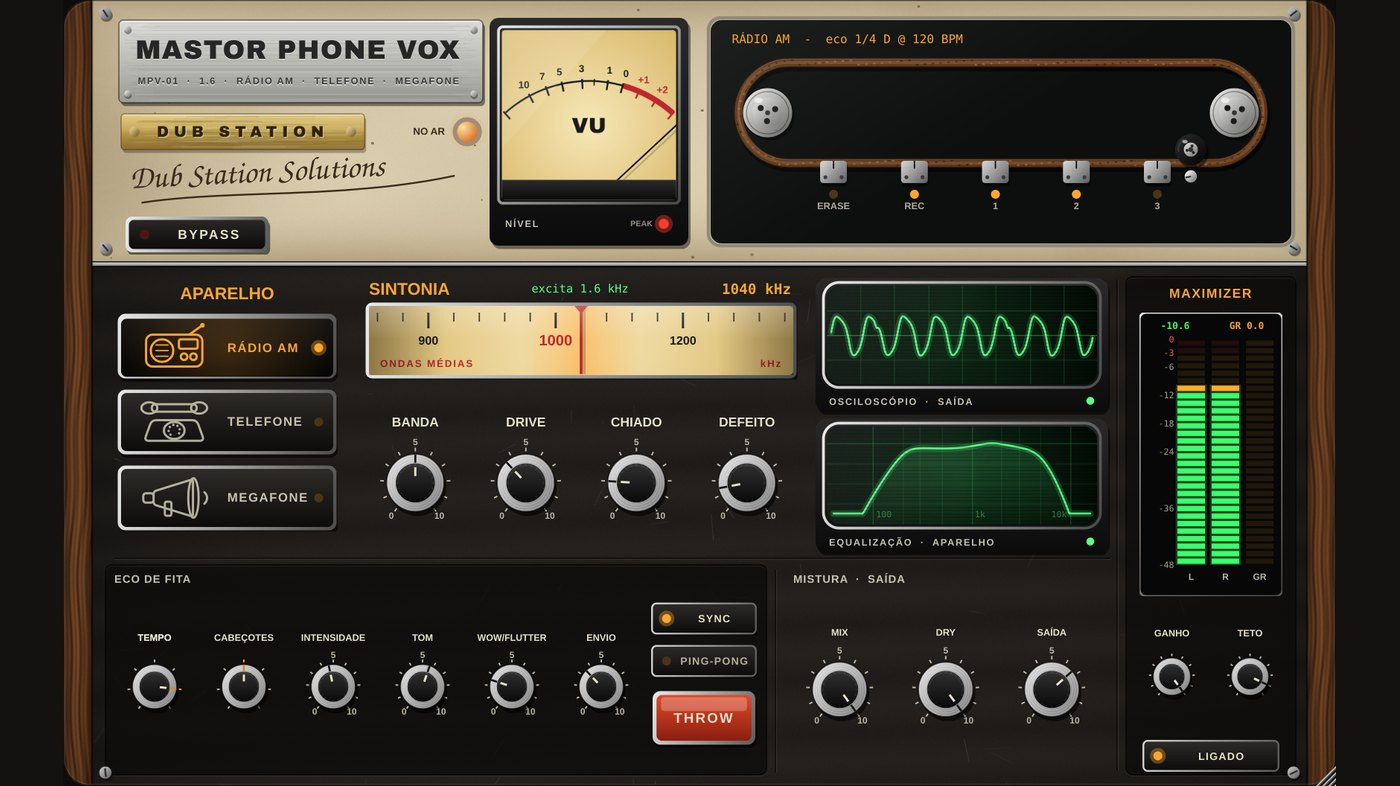
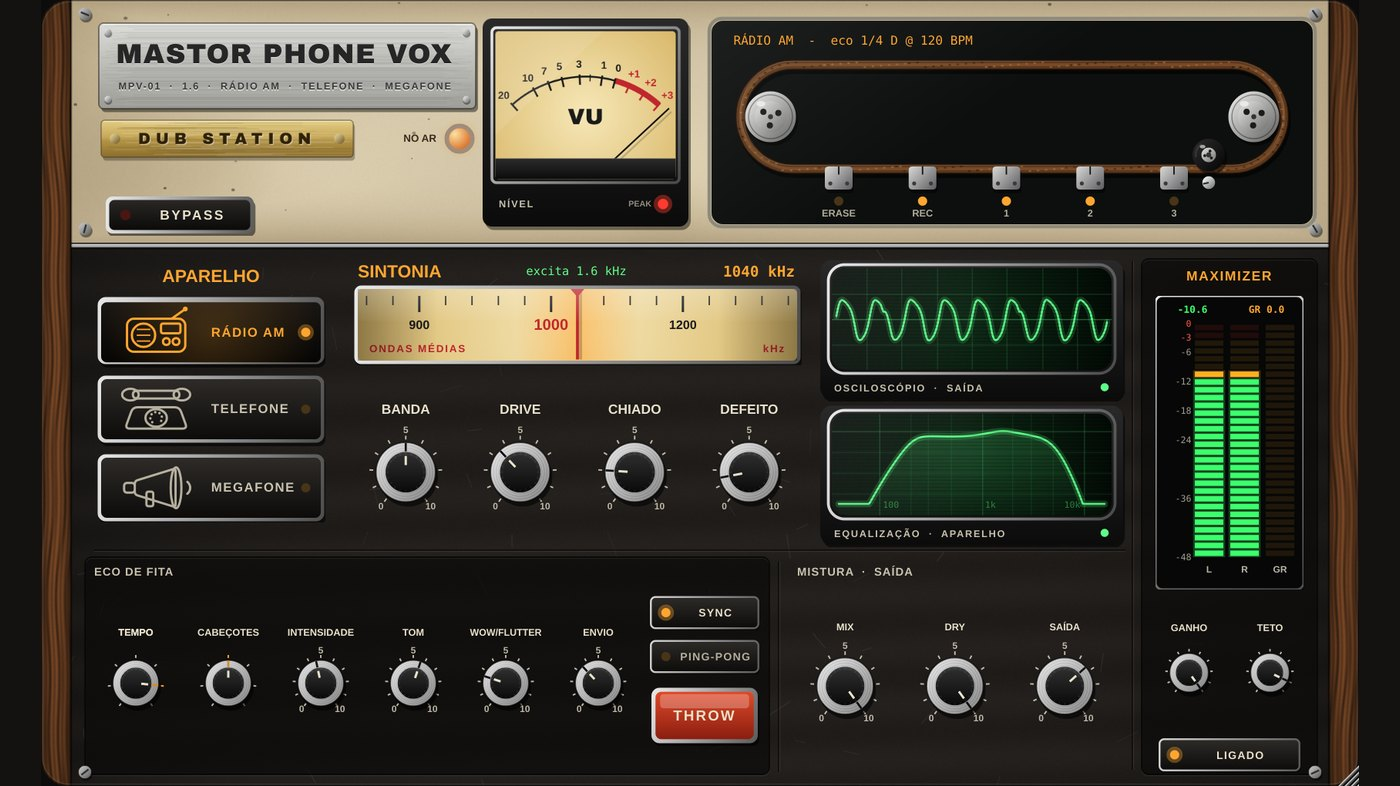
Site e README: Mastor Phone Vox MPV-01 1.6 (antigo Mastor Fone)
Nome novo, links dos zips MastorPhoneVox-*.zip, imagem nova e comando
de liberação no Mac com o nome do .vst3 novo.

Claude-Session: https://claude.ai/code/session_01DJAeyXvUbq8XtquW6CP987

diff --git a/site/index.html b/site/index.html
@@ -4,9 +4,9 @@
 <meta charset="utf-8">
 <meta name="viewport" content="width=device-width, initial-scale=1">
 <title>DubMastor — Plugins de dub (VST3 / AU)</title>
-<meta name="description" content="Baixe os plugins DubMastor Big Knob, Dub Station 2.6, DubMastor Roots Keys, Mastor Reggae Chord Machine, Mastor Reggae Dub Bass Instrument, Mastor Dub Drums Machine, Mastor Bass Machine e Mastor Fone — VST3 para Windows e Mac, AU para Mac. Grátis.">
+<meta name="description" content="Baixe os plugins DubMastor Big Knob, Dub Station 2.6, DubMastor Roots Keys, Mastor Reggae Chord Machine, Mastor Reggae Dub Bass Instrument, Mastor Dub Drums Machine, Mastor Bass Machine e Mastor Phone Vox MPV-01 — VST3 para Windows e Mac, AU para Mac. Grátis.">
 <meta property="og:title" content="DubMastor — Plugins de dub">
-<meta property="og:description" content="Big Knob 3.2, Dub Station 2.6, DubMastor Roots Keys, Mastor Reggae Chord Machine, Mastor Reggae Dub Bass Instrument MRDBI-07 1.5 e Mastor Fone: filtro estilo King Tubby, eco de fita, reverb de mola, piano M1, órgão Hammond, baixo de senoide e 808 e voz de rádio, telefone e megafone. VST3 / AU, Windows e Mac.">
+<meta property="og:description" content="Big Knob 3.2, Dub Station 2.6, DubMastor Roots Keys, Mastor Reggae Chord Machine, Mastor Reggae Dub Bass Instrument MRDBI-07 1.5 e Mastor Phone Vox MPV-01: filtro estilo King Tubby, eco de fita, reverb de mola, piano M1, órgão Hammond, baixo de senoide e 808 e voz de rádio, telefone e megafone. VST3 / AU, Windows e Mac.">
 <meta property="og:image" content="img/dubstation21.jpg">
 <style>
   @font-face { font-family: "Plate"; src: url("fonts/ArchivoBlack-Regular.ttf") format("truetype"); font-display: swap; }
@@ -347,10 +347,10 @@
         </article>
 
         <article class="card">
-          <img class="shot" src="img/mastorfone.jpg" alt="Interface do Mastor Fone: painel creme com plaqueta de alumínio, VU, janela da fita, teclas de rádio, telefone e megafone, dial de ondas médias e botões de alumínio" width="1400" height="786" loading="lazy">
+          <img class="shot" src="img/mastorfone.jpg" alt="Interface do Mastor Phone Vox MPV-01: painel creme com plaqueta de alumínio, VU, janela da fita, teclas de rádio, telefone e megafone, dial de ondas médias e botões de alumínio" width="1400" height="786" loading="lazy">
           <div class="body">
-            <h3>Mastor Fone <small>1.6</small></h3>
-            <p>Efeito para voz que imita rádio AM, telefone antigo e megafone, com o mesmo eco de fita do Big Knob. Dub Station Solutions.</p>
+            <h3>Mastor Phone Vox MPV-01 <small>1.6</small></h3>
+            <p>Efeito para voz (antigo Mastor Fone) que imita rádio AM, telefone antigo e megafone, com o mesmo eco de fita do Big Knob.</p>
             <ul>
               <li>Rádio AM com válvula e chiado, telefone de central antiga e megafone estourado</li>
               <li>Teclas dos aparelhos, Sintonia, Banda, Drive, Chiado, Defeito e Mix</li>
@@ -360,8 +360,8 @@
             </ul>
             <div class="formats">Efeito · Windows: VST3 + standalone · Mac: VST3, AU + standalone (Intel e Apple Silicon)</div>
             <div class="dl">
-              <a class="btn" href="https://github.com/dubmastor/DubMastor-DubStation-/releases/latest/download/MastorFone-Windows.zip">⬇ Windows<span>VST3 · zip</span></a>
-              <a class="btn alt" href="https://github.com/dubmastor/DubMastor-DubStation-/releases/latest/download/MastorFone-macOS.zip">⬇ Mac<span>VST3 + AU · zip</span></a>
+              <a class="btn" href="https://github.com/dubmastor/DubMastor-DubStation-/releases/latest/download/MastorPhoneVox-Windows.zip">⬇ Windows<span>VST3 · zip</span></a>
+              <a class="btn alt" href="https://github.com/dubmastor/DubMastor-DubStation-/releases/latest/download/MastorPhoneVox-macOS.zip">⬇ Mac<span>VST3 + AU · zip</span></a>
             </div>
           </div>
         </article>
@@ -390,7 +390,7 @@
 <pre>xattr -dr com.apple.quarantine ~/Library/Audio/Plug-Ins/VST3/"DubMastor Big Knob.vst3"
 xattr -dr com.apple.quarantine ~/Library/Audio/Plug-Ins/VST3/"FitaEco TE-12.vst3"
 xattr -dr com.apple.quarantine ~/Library/Audio/Plug-Ins/VST3/"DubMastor Roots Keys.vst3"
-xattr -dr com.apple.quarantine ~/Library/Audio/Plug-Ins/VST3/"Mastor Fone.vst3"
+xattr -dr com.apple.quarantine ~/Library/Audio/Plug-Ins/VST3/"Mastor Phone Vox MPV-01.vst3"
 xattr -dr com.apple.quarantine ~/Library/Audio/Plug-Ins/VST3/"Mastor Reggae Chord Machine MRCM-1240.vst3"
 xattr -dr com.apple.quarantine ~/Library/Audio/Plug-Ins/VST3/"Mastor Reggae Dub Bass Instrument MRDBI-07.vst3"
 xattr -dr com.apple.quarantine ~/Library/Audio/Plug-Ins/VST3/"DubMastor Dub Drums.vst3"

diff --git a/README.md b/README.md
@@ -24,7 +24,7 @@ bubble, já alinhados, de 4 a 64 compassos) para a timeline. Um projeto começa 
 | **Mastor Dub Drums Machine MDDM-12 1.1** | Instrumento / gerador MIDI: esqueleto da bateria de reggae (Rockers, One Drop) e Boom Bap, com caixa no 2 e no 4 e bumbo/caixa editáveis por colcheia, com chave de baterista (Style Scott, Santa Davis, Carlton Barrett) com a assinatura de hi-hat e as viradas de cada um, caixa/aro, virada de intro, kit anos 70 ou digital (King Jammy / Sleng Teng), MIDI colorido por compasso e mapa de notas | [⬇ macOS](https://github.com/dubmastor/DubMastor-DubStation-/releases/download/DubDrums-1.1/DubMastorDubDrums-macOS.zip) | [⬇ Windows](https://github.com/dubmastor/DubMastor-DubStation-/releases/download/DubDrums-1.1/DubMastorDubDrums-Windows.zip) | [DubDrums/](DubDrums/) |
 | **Mastor Reggae Bass Machine MRBM-69 2.4** | Instrumento / gerador de reggae bass lines em MIDI: botoeira com 7 baixistas (Family Man, Flabba, Derrick Barnett, Robbie, Leroy Sibbles, Fully Fullwood, Jammys/Sleng Teng) sobre até 4 acordes; preview com os timbres do Dub Bass (Roots Sine e Super Tone), bateria de acompanhamento (Roots, One Drop, Digital, Dancehall) e teclado do Roots Keys; arraste o MIDI para a timeline | [⬇ macOS](https://github.com/dubmastor/DubMastor-DubStation-/releases/download/MRBM-69-2.4/MRBM-69-macOS.zip) | [⬇ Windows](https://github.com/dubmastor/DubMastor-DubStation-/releases/download/MRBM-69-2.4/MRBM-69-Windows.zip) | [BassMachine/](BassMachine/) |
 | **Mastor Dub Horns 1.1** | Instrumento: naipe de metais anos 70 (trompete, flugel, saxes e trombone) com harmonia no tom, timbres de estúdio jamaicano, Mastor Tape Echo, EQ gráfico de 10 bandas com Filtro Tubby e frases MIDI (ataques estilo Dean Fraser e introduções) com notas escolhidas por você | [⬇ macOS](https://github.com/dubmastor/DubMastor-DubStation-/releases/download/MastorDubHorns-1.1/MastorDubHorns-macOS.zip) | [⬇ Windows](https://github.com/dubmastor/DubMastor-DubStation-/releases/download/MastorDubHorns-1.1/MastorDubHorns-Windows.zip) | [MastorDubHorns/](MastorDubHorns/) |
-| **Mastor Fone 1.6** | Efeito de voz: rádio AM, telefone antigo e megafone, com o eco de fita e o maximizer do Big Knob, no visual Dub Station | [⬇ macOS](https://github.com/dubmastor/DubMastor-DubStation-/releases/latest/download/MastorFone-macOS.zip) | [⬇ Windows](https://github.com/dubmastor/DubMastor-DubStation-/releases/latest/download/MastorFone-Windows.zip) | [MastorFone/](MastorFone/) |
+| **Mastor Phone Vox MPV-01 1.6** | Efeito de voz (antigo Mastor Fone): rádio AM, telefone antigo e megafone, com o eco de fita e o maximizer do Big Knob, no visual Dub Station | [⬇ macOS](https://github.com/dubmastor/DubMastor-DubStation-/releases/latest/download/MastorPhoneVox-macOS.zip) | [⬇ Windows](https://github.com/dubmastor/DubMastor-DubStation-/releases/latest/download/MastorPhoneVox-Windows.zip) | [MastorFone/](MastorFone/) |
 | **Dub Station 2.6 (FitaEco TE-12)** | Eco de fita de 3 cabeças + reverb de mola, com EQ gráfico | [⬇ macOS](https://github.com/dubmastor/DubMastor-DubStation-/releases/latest/download/DubStation26-macOS.zip) | [⬇ Windows](https://github.com/dubmastor/DubMastor-DubStation-/releases/latest/download/DubStation26-Windows.zip) | [DubStation21/](DubStation21/) |
 
 Todos os downloads ficam na página de **[Releases](https://github.com/dubmastor/DubMastor-DubStation-/releases/latest)**. Não precisa de conta no GitHub para baixar.
@@ -40,7 +40,7 @@ Todos os downloads ficam na página de **[Releases](https://github.com/dubmastor
    xattr -dr com.apple.quarantine ~/Library/Audio/Plug-Ins/VST3/"DubMastor Big Knob.vst3"
    xattr -dr com.apple.quarantine ~/Library/Audio/Plug-Ins/VST3/"FitaEco TE-12.vst3"
    xattr -dr com.apple.quarantine ~/Library/Audio/Plug-Ins/VST3/"DubMastor Roots Keys.vst3"
-   xattr -dr com.apple.quarantine ~/Library/Audio/Plug-Ins/VST3/"Mastor Fone.vst3"
+   xattr -dr com.apple.quarantine ~/Library/Audio/Plug-Ins/VST3/"Mastor Phone Vox MPV-01.vst3"
    xattr -dr com.apple.quarantine ~/Library/Audio/Plug-Ins/VST3/"Mastor Reggae Chord Machine MRCM-1240.vst3"
    xattr -dr com.apple.quarantine ~/Library/Audio/Plug-Ins/VST3/"Mastor Reggae Dub Bass Instrument MRDBI-07.vst3"
    xattr -dr com.apple.quarantine ~/Library/Audio/Plug-Ins/VST3/"DubMastor Dub Drums.vst3"
@@ -65,7 +65,7 @@ O formato é **VST3** (`.vst3`). O formato antigo `.vst` (VST2) não é suportad
 BigKnob/                         DubMastor Big Knob (C++ / JUCE 8)
 DubStation21/                    Dub Station 2.6 — FitaEco TE-12 (C++ / JUCE 8)
 RootsKeys/                       DubMastor Roots Keys — piano M1 + órgão Hammond + Dub Chords (C++ / JUCE 8)
-MastorFone/                      Mastor Fone — rádio AM, telefone e megafone para voz (C++ / JUCE 8)
+MastorFone/                      Mastor Phone Vox MPV-01 — rádio AM, telefone e megafone para voz (C++ / JUCE 8)
 DubChords/                       Mastor Reggae Chord Machine MRCM-1240 — gerador de skank/harmonia para riddim (C++ / JUCE 8)
 DubBass/                         Mastor Reggae Dub Bass Instrument MRDBI-07 — baixo de reggae Bass / Super Tone / 808 (C++ / JUCE 8)
 DubDrums/                        Mastor Dub Drums Machine MDDM-12 — gerador de bateria de reggae com bateria interna (C++ / JUCE 8)
@@ -76,7 +76,7 @@ RiddimMachine/                   Mastor Riddim Machine MRM-0420 — Dub Chords +
   build-bigknob.yml              compila, valida e publica o Big Knob
   build-dubstation21.yml         compila, valida e publica o Dub Station 2.6
   build-rootskeys.yml            compila, valida e publica o DubMastor Roots Keys
-  build-mastorfone.yml           compila, valida e publica o Mastor Fone
+  build-mastorfone.yml           compila, valida e publica o Mastor Phone Vox MPV-01
   build-dubchords.yml            compila, valida e publica o MRCM-1240
   build-dubbass.yml              testa, compila, valida e publica o MRDBI-07 (release MRDBI-07-x.y a cada versão)
   build-dubdrums.yml             testa, compila, valida e publica o MDDM-12 (release MDDM-12-x.y a cada versão)

diff --git a/MastorFone/README.md b/MastorFone/README.md
@@ -1,6 +1,6 @@
 # Mastor Phone Vox MPV-01 1.6 — voz de aparelho antigo 📻☎📣
 
-*Dub Station Solutions*
+*Linha Dub Station*
 
 ← [Voltar para a página inicial do repositório](../README.md)
 
